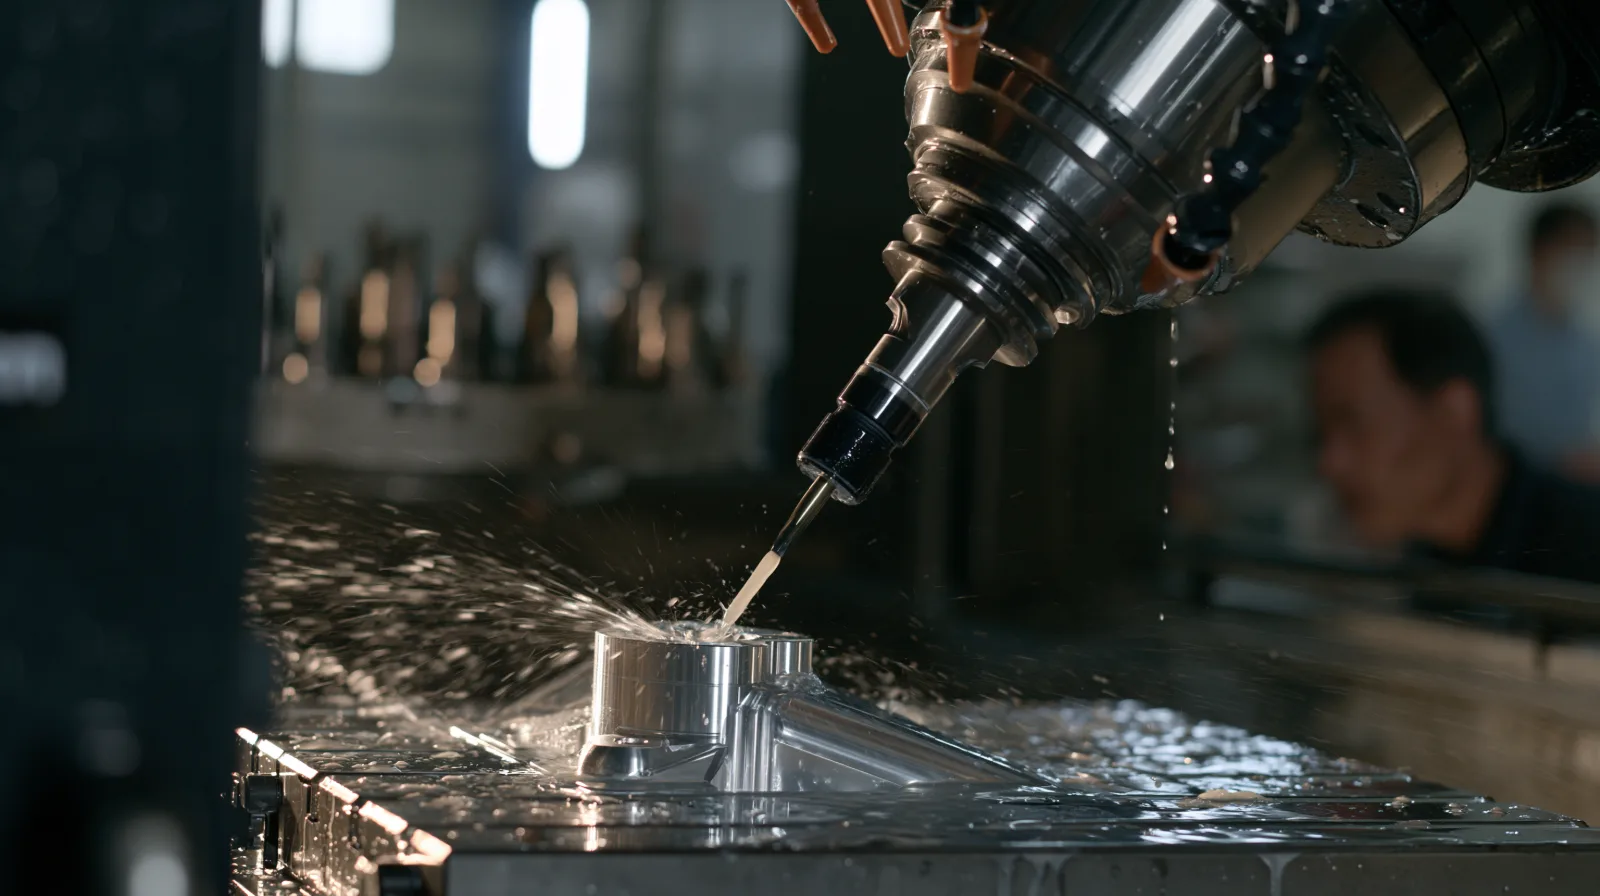
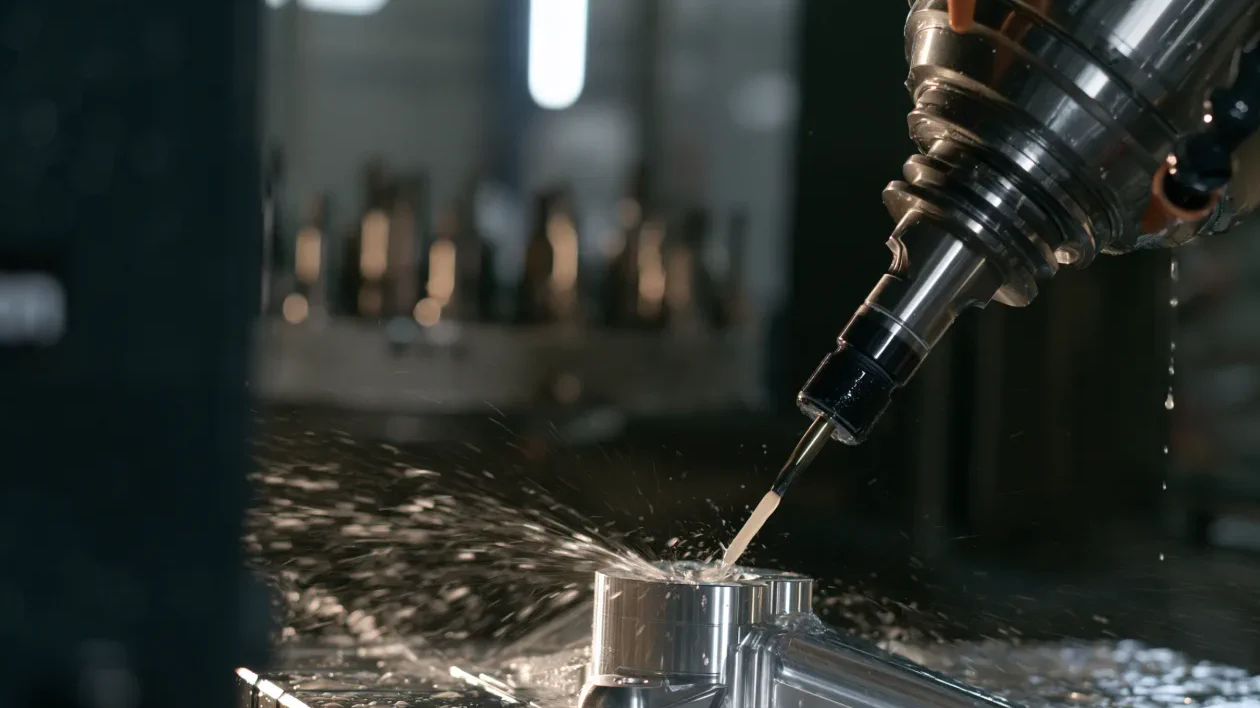
feat(assets): retire the two facility heroes from every public surface
`USER_INPUTS.md` §I records FACILITY_PHOTOS / MACHINE_PHOTOS / TEAM_PHOTOS
as NONE and "never falsify the facility"; a stock hall under "Makine
Parkuru" or behind fifteen sector pages is a facility claim by implication.

- /kabiliyetler/makine-parkuru: `hero-makine-parkuru` (hall, rows of
  machining centres, people) -> `hero-cnc`, cropped in place with ffmpeg
  (crop=1260:708:0:60) so the operator at the right edge is out of frame;
  640/960 derivatives generated. The source asset set is deleted (zero
  references remain).
- /endustriyel/* fallback (15 pages): `cnc-workshop` (wide empty hall) ->
  `hero-seri-uretim` (rows of identical parts on black).
- /blog/endustriyel-yuzey-islemleri-rehberi: `cnc-workshop` ->
  `hero-yuzey-islemleri`, which is what the post's caption describes.

`cnc-workshop` stays on disk and in the derivative list only because
`src/pages/Blog.tsx` (outside this packet's allowlist) still imports it.

Claude-Session: https://claude.ai/code/session_013mzqXq7KjpjHdm76iXjL6k

diff --git a/src/pages/ServiceDetail.tsx b/src/pages/ServiceDetail.tsx
@@ -22,9 +22,6 @@ import { usePrefersReducedMotion } from "@/hooks/use-reduced-motion";
 import { usePageMeta } from "@/hooks/use-page-meta";
 import { MINIMUM_TOLERANCE, QUOTE_RESPONSE_TIME } from "@/content/claims";
 import { coverSizes, responsive, type ResponsiveImage } from "@/components/BlurImage";
-import cncWorkshop from "@/assets/cnc-workshop.webp";
-import cncWorkshop640 from "@/assets/cnc-workshop-640.webp";
-import cncWorkshop960 from "@/assets/cnc-workshop-960.webp";
 import qualityControl from "@/assets/quality-control.webp";
 import qualityControl640 from "@/assets/quality-control-640.webp";
 import qualityControl960 from "@/assets/quality-control-960.webp";
@@ -90,9 +87,9 @@ import heroKittingPaketleme960 from "@/assets/hero-kitting-paketleme-960.webp";
 import heroKaynakliImalat from "@/assets/hero-kaynakli-imalat.webp";
 import heroKaynakliImalat640 from "@/assets/hero-kaynakli-imalat-640.webp";
 import heroKaynakliImalat960 from "@/assets/hero-kaynakli-imalat-960.webp";
-import heroMakineParkuru from "@/assets/hero-makine-parkuru.webp";
-import heroMakineParkuru640 from "@/assets/hero-makine-parkuru-640.webp";
-import heroMakineParkuru960 from "@/assets/hero-makine-parkuru-960.webp";
+import heroCnc from "@/assets/hero-cnc.webp";
+import heroCnc640 from "@/assets/hero-cnc-640.webp";
+import heroCnc960 from "@/assets/hero-cnc-960.webp";
 import heroKaliteKontrol from "@/assets/hero-kalite-kontrol.webp";
 import heroKaliteKontrol640 from "@/assets/hero-kalite-kontrol-640.webp";
 import heroKaliteKontrol960 from "@/assets/hero-kalite-kontrol-960.webp";
@@ -182,8 +179,17 @@ import heroSeriUretim960 from "@/assets/hero-seri-uretim-960.webp";
 
 /* Every plate source with its 640/960(/1600) ladder from
    `scripts/assets/make-derivatives.mjs`. `responsive()` keeps the source as the
-   widest candidate, so a 900-wide source (`hero-cnc-tornalama`) never upscales. */
-const cncWorkshopHero = responsive(1600, 682, cncWorkshop, [cncWorkshop640, 640], [cncWorkshop960, 960]);
+   widest candidate, so a 900-wide source (`hero-cnc-tornalama`) never upscales.
+
+   PHASE 10-2b — `USER_INPUTS.md` §I (`FACILITY_PHOTOS: NONE`, `MACHINE_PHOTOS:
+   NONE`, `TEAM_PHOTOS: NONE`, "never falsify the facility"): no plate may show a
+   hall or legible staff as MAS's own. `cnc-workshop` (a wide empty machine hall,
+   the fallback hero of every sector page) and `hero-makine-parkuru` (a hall with
+   rows of machining centres and people, under a page titled "Makine Parkuru")
+   are retired from this route; the sector fallback is `hero-seri-uretim` (rows
+   of identical parts on black, no room implied) and Makine Parkuru carries
+   `hero-cnc` (spindle and coolant, cropped so the operator is out of frame).
+   Mapping and crops: `reports/10/art-direction.md`. */
 const qualityControlHero = responsive(1600, 682, qualityControl, [qualityControl640, 640], [qualityControl960, 960]);
 
 const heroImageMap: Record<string, ResponsiveImage> = {
@@ -208,7 +214,7 @@ const heroImageMap: Record<string, ResponsiveImage> = {
   "hero-mekanik-montaj": responsive(1600, 896, heroMekanikMontaj, [heroMekanikMontaj640, 640], [heroMekanikMontaj960, 960]),
   "hero-kitting-paketleme": responsive(1600, 896, heroKittingPaketleme, [heroKittingPaketleme640, 640], [heroKittingPaketleme960, 960]),
   "hero-kaynakli-imalat": responsive(1600, 896, heroKaynakliImalat, [heroKaynakliImalat640, 640], [heroKaynakliImalat960, 960]),
-  "hero-makine-parkuru": responsive(1600, 896, heroMakineParkuru, [heroMakineParkuru640, 640], [heroMakineParkuru960, 960]),
+  "hero-cnc": responsive(1260, 708, heroCnc, [heroCnc640, 640], [heroCnc960, 960]),
   "hero-kalite-kontrol": responsive(1600, 896, heroKaliteKontrol, [heroKaliteKontrol640, 640], [heroKaliteKontrol960, 960]),
   "hero-dfm-tasarim": responsive(1600, 896, heroDfmTasarim, [heroDfmTasarim640, 640], [heroDfmTasarim960, 960]),
   "hero-yuzey-islemleri": responsive(1600, 896, heroYuzeyIslemleri, [heroYuzeyIslemleri640, 640], [heroYuzeyIslemleri960, 960]),
@@ -356,7 +362,7 @@ export const ServiceDetail = () => {
   const materialRows = page.materials ?? [];
   const heroImage = page.heroImage && heroImageMap[page.heroImage]
     ? heroImageMap[page.heroImage]
-    : page.category === "kabiliyetler" ? qualityControlHero : cncWorkshopHero;
+    : page.category === "kabiliyetler" ? qualityControlHero : heroImageMap["hero-seri-uretim"];
 
   /* Band numbers are assigned in render order, so a page without comparison
      tables does not leave a hole in the sheet numbering. JSX evaluates its

diff --git a/src/pages/BlogDetail.tsx b/src/pages/BlogDetail.tsx
@@ -32,9 +32,9 @@ import serviceCncFreze640 from "@/assets/service-cnc-freze-640.webp";
 import qualityControl from "@/assets/quality-control.webp";
 import qualityControl640 from "@/assets/quality-control-640.webp";
 import qualityControl960 from "@/assets/quality-control-960.webp";
-import cncWorkshop from "@/assets/cnc-workshop.webp";
-import cncWorkshop640 from "@/assets/cnc-workshop-640.webp";
-import cncWorkshop960 from "@/assets/cnc-workshop-960.webp";
+import heroYuzeyIslemleri from "@/assets/hero-yuzey-islemleri.webp";
+import heroYuzeyIslemleri640 from "@/assets/hero-yuzey-islemleri-640.webp";
+import heroYuzeyIslemleri960 from "@/assets/hero-yuzey-islemleri-960.webp";
 
 /* ══════════════════════════════════════════════════════════════════════════
    ARTICLE
@@ -109,7 +109,11 @@ const plateSources = new Map<string, ResponsiveImage>([
   [blogDfm, responsive(1600, 896, blogDfm, [blogDfm640, 640], [blogDfm960, 960])],
   [serviceCncFreze, responsive(800, 544, serviceCncFreze, [serviceCncFreze640, 640])],
   [qualityControl, responsive(1600, 682, qualityControl, [qualityControl640, 640], [qualityControl960, 960])],
-  [cncWorkshop, responsive(1600, 682, cncWorkshop, [cncWorkshop640, 640], [cncWorkshop960, 960])],
+  /* 10-2b: the surface-treatment guide no longer opens on `cnc-workshop` (a wide
+     machine hall — a facility implication `USER_INPUTS.md` §I forbids, and a
+     picture its own caption "dört farklı yüzey bitişi" did not describe); it
+     opens on the bead-blasted / brushed macro the caption is about. */
+  [heroYuzeyIslemleri, responsive(1600, 896, heroYuzeyIslemleri, [heroYuzeyIslemleri640, 640], [heroYuzeyIslemleri960, 960])],
 ]);
 
 /* `.shell-plate-frame` image box (`src/styles/shell.css`): `clamp(200px, 33vw,

diff --git a/src/data/servicePages.ts b/src/data/servicePages.ts
@@ -1692,7 +1692,7 @@ export const servicePages: ServicePageData[] = [
       "5 eksen CNC frezeleme, C/Y eksenli tornalama, Swiss tornalama, derin delik işleme ve tel erozyon kabiliyetleri. Parça geometrisine göre proses seçimi.",
     description:
       "Bir parçanın hangi tezgâhta üretileceği, geometrisi ve tolerans zinciri tarafından belirlenir. Proses ailelerimiz, bu kararı parçanın gereksinimine göre verebilmek üzere birlikte planlanır.",
-    heroImage: "hero-makine-parkuru",
+    heroImage: "hero-cnc",
     content: [
       "Üretim planlaması bir tezgâh listesiyle değil, parçanın kendisiyle başlar. Bağlama sayısı, erişilmesi gereken yüzeyler, ölçü zinciri ve malzemenin davranışı; hangi proses ailesinin kullanılacağını ve hangi sırayla işleneceğini belirler.",
       "5 eksen simültane frezeleme, tek bağlamada birden fazla yüzeye erişim gerektiren geometrilerde kullanılır. Bağlama sayısını azaltmak yalnızca süreyi kısaltmaz; her yeni bağlama ölçü zincirine yeni bir hata kaynağı eklediği için doğrudan tolerans lehine çalışır.",

diff --git a/src/data/blogData.ts b/src/data/blogData.ts
@@ -1,7 +1,7 @@
 import blog5eksen from "@/assets/blog-5eksen.webp";
 import blogMalzeme from "@/assets/blog-malzeme.webp";
 import blogDfm from "@/assets/blog-dfm.webp";
-import cncWorkshop from "@/assets/cnc-workshop.webp";
+import heroYuzeyIslemleri from "@/assets/hero-yuzey-islemleri.webp";
 import qualityControl from "@/assets/quality-control.webp";
 import serviceCncFreze from "@/assets/service-cnc-freze.webp";
 import { CMM_COVERAGE, MINIMUM_TOLERANCE, MINIMUM_TOLERANCE_COMPACT } from "@/content/claims";
@@ -397,7 +397,7 @@ export const blogPosts: BlogPost[] = [
     date: "10 Aralık 2023",
     readTime: "12 dk okuma",
     category: "Rehber",
-    image: cncWorkshop,
+    image: heroYuzeyIslemleri,
     imageAlt: "Farklı yüzey işlemleri uygulanmış metal parçaların bir arada görünümü",
     imageCaption: "Aynı alaşımda dört farklı yüzey bitişi",
     featured: false,
